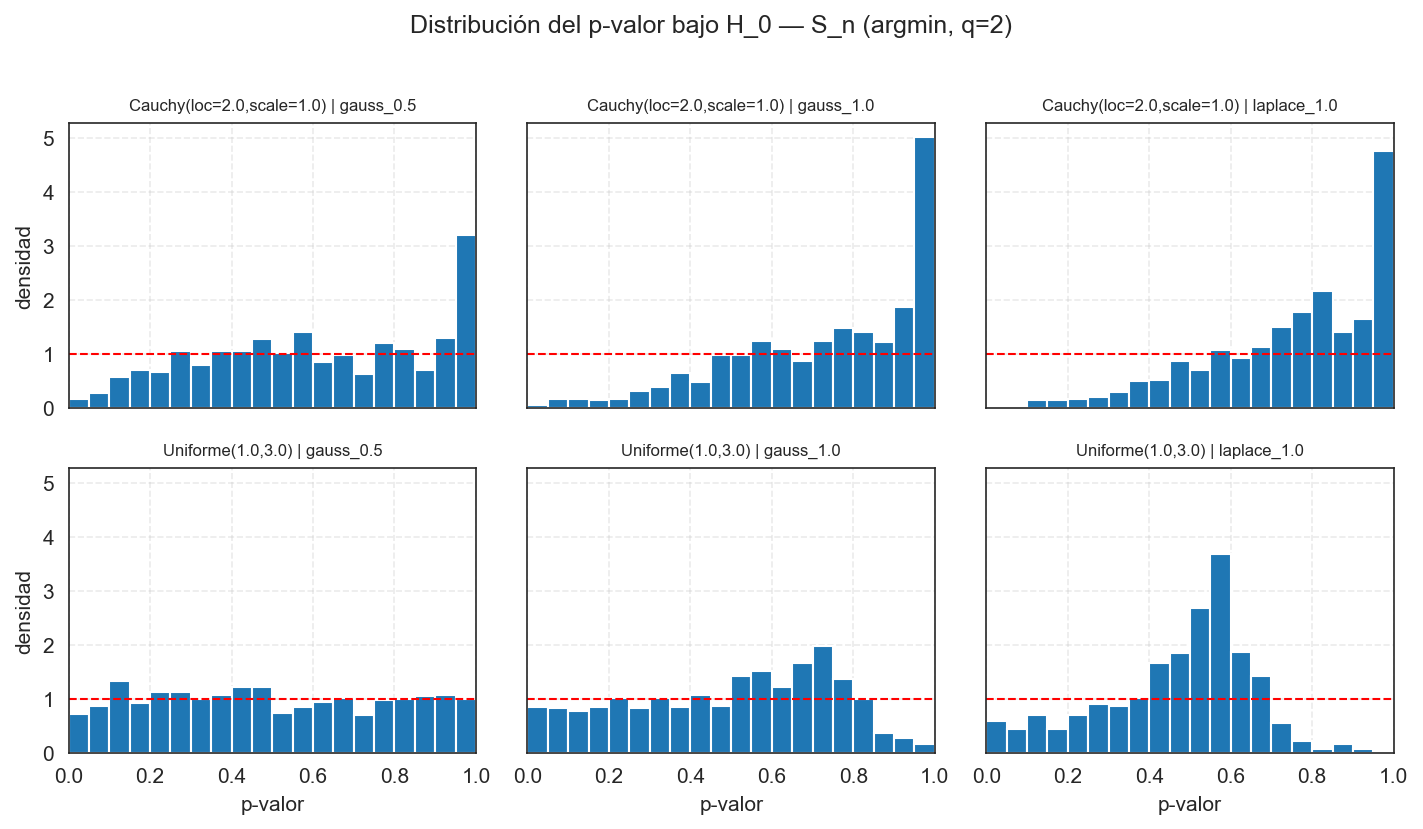
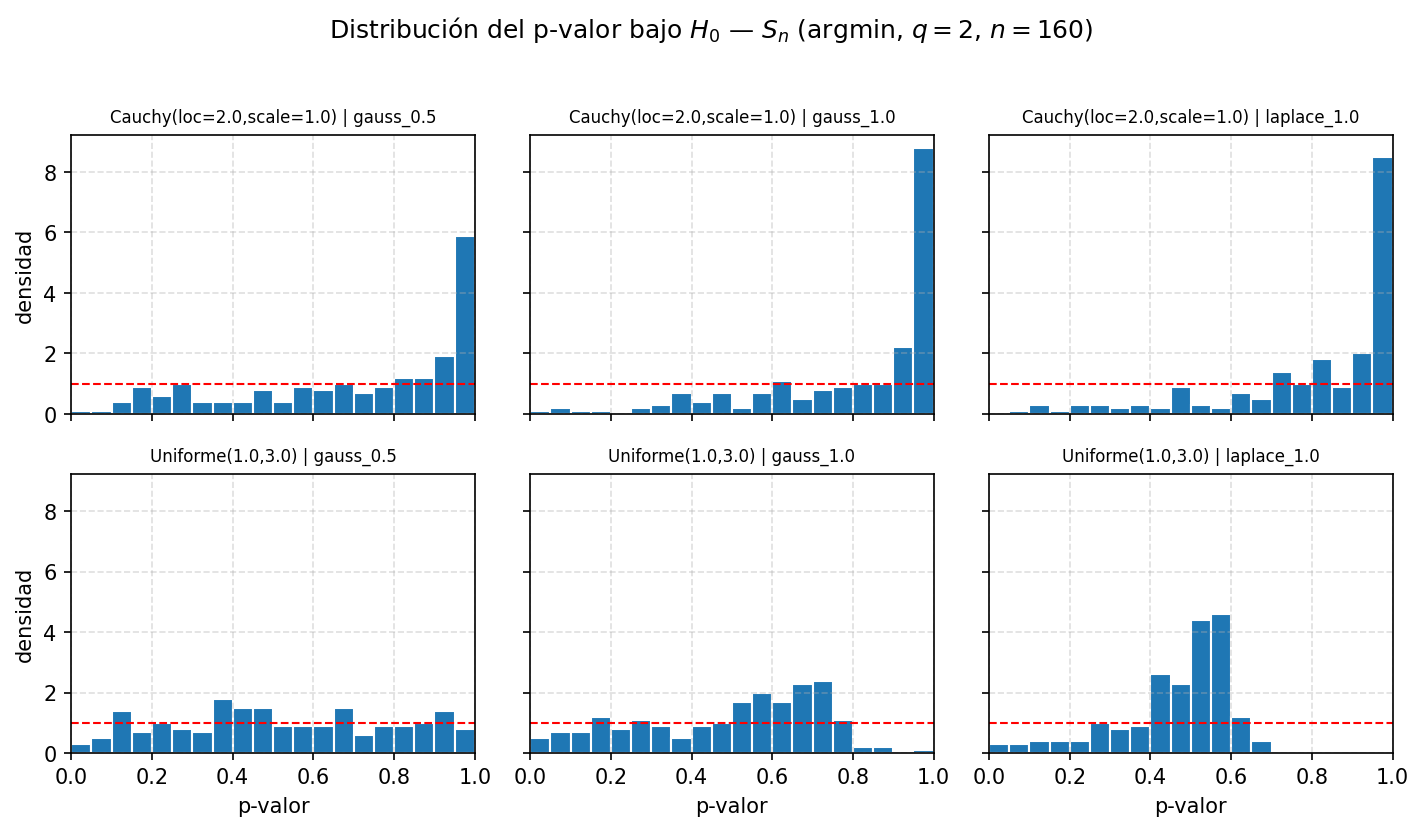
fix: p-value histograms solo muestran n_max (n=160)
- plotting.py, plotting_sn.py: filtrar h0["n"] == n_max antes de histogramar
- titulo actualizado para mostrar el n usado
- regenera tn_pvalue_h0.png y sn_pvalue_h0.png

diff --git a/src/plotting.py b/src/plotting.py
@@ -316,6 +316,8 @@ def plot_pvalue_distribution_h0(df: pd.DataFrame, outdir: Path) -> Path | None:
     h0 = df[df["under_h0"]].copy()
     if h0.empty:
         return None
+    n_max = int(h0["n"].max())
+    h0 = h0[h0["n"] == n_max]
     estimators = sorted(h0["estimator"].unique())
     dists = sorted(h0["dist"].unique())
     fig, axes = plt.subplots(
@@ -337,7 +339,7 @@ def plot_pvalue_distribution_h0(df: pd.DataFrame, outdir: Path) -> Path | None:
         ax.set_xlabel("p-valor")
     for ax in axes[:, 0]:
         ax.set_ylabel("densidad")
-    fig.suptitle("Distribución del p-valor bajo H_0 (T_n)", y=1.02)
+    fig.suptitle(f"Distribución del p-valor bajo $H_0$ ($T_n$, $n={n_max}$)", y=1.02)
     fig.tight_layout()
     out = outdir / "tn_pvalue_h0.png"
     fig.savefig(out, dpi=150, bbox_inches="tight")

diff --git a/src/plotting_sn.py b/src/plotting_sn.py
@@ -370,6 +370,8 @@ def plot_pvalue_distribution_h0_sn(df: pd.DataFrame, outdir: Path) -> Path | Non
     sub = h0[(h0["estimator"] == "argmin") & (h0["q"] == 2)].copy()
     if sub.empty:
         sub = h0.copy()
+    n_max = int(sub["n"].max())
+    sub = sub[sub["n"] == n_max]
     dists = sorted(sub["dist"].unique())
     weights = sorted(sub["weight"].unique())
     fig, axes = plt.subplots(
@@ -391,7 +393,7 @@ def plot_pvalue_distribution_h0_sn(df: pd.DataFrame, outdir: Path) -> Path | Non
         ax.set_xlabel("p-valor")
     for ax in axes[:, 0]:
         ax.set_ylabel("densidad")
-    fig.suptitle("Distribución del p-valor bajo H_0 — S_n (argmin, q=2)", y=1.02)
+    fig.suptitle(f"Distribución del p-valor bajo $H_0$ — $S_n$ (argmin, $q=2$, $n={n_max}$)", y=1.02)
     fig.tight_layout()
     out = outdir / "sn_pvalue_h0.png"
     fig.savefig(out, dpi=150, bbox_inches="tight")